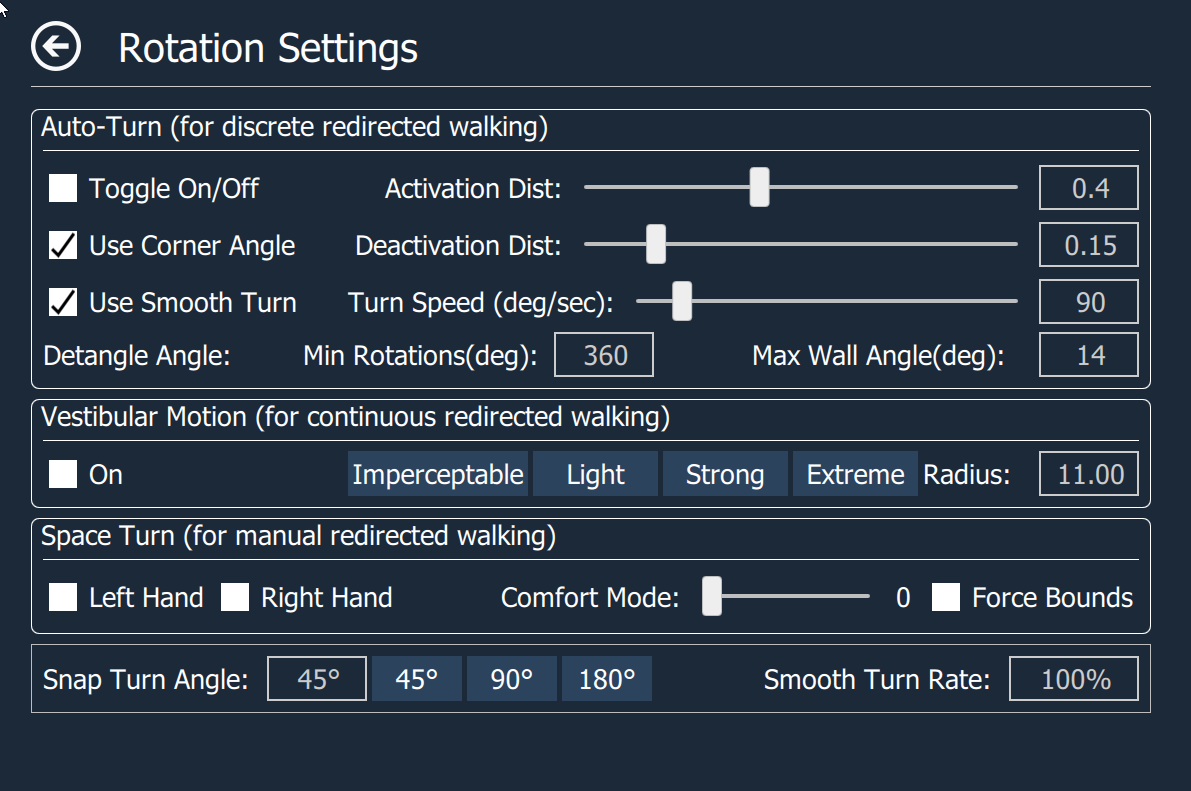
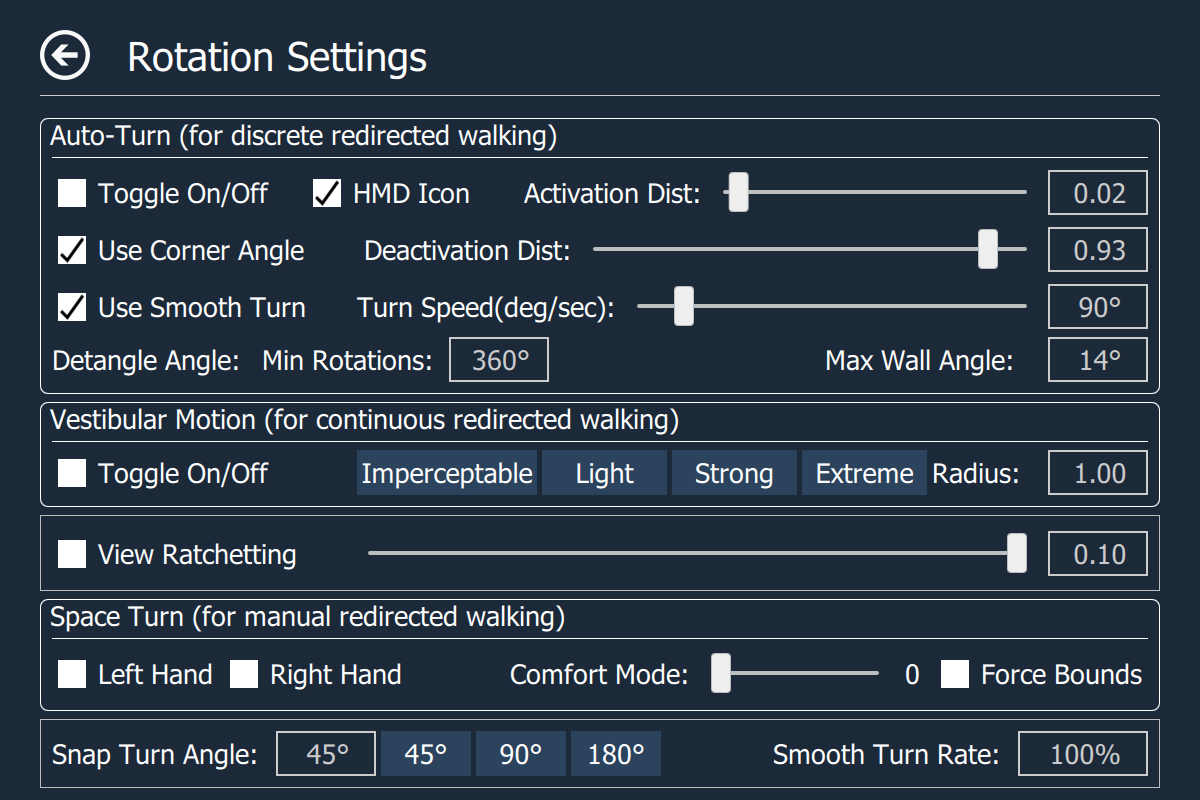
530 release (#517)
* update version strings for 5.3.0

* updated documentation

Changed region(s): [[0.0311, 0.0303, 0.9631, 0.9709]]

diff --git a/Readme.md b/Readme.md
@@ -221,7 +221,7 @@ Actions That will stay active regardless of the situation.
 | Add Left Haptic Click | Binary/Button | simulates a "click" with controller haptics. (left hand)
 | Add Right Haptic Click | Binary/Button | simulates a "click" with controller haptics. (right hand)
 | Key Press System | Binary/Button | Sends the key press defined in the settings file. Defaults to F9 |
-| Exclusive Input Toggle | Binary/Button | Switches between App and OVRAS keybinds, *note:* system Key-Binds remain active all the time
+| Exclusive Input Toggle | Binary/Button | Switches between App and OVRAS keybinds, *note:* OVRAS's system Key-Binds remain active all the time
 
 ### Haptics.
 
@@ -445,8 +445,8 @@ Allows users to temporarily move and rotate the center of the playspace. This al
 - **Redirected Walking**: Adds rotation as you walk to turn you away from the nearest wall you're moving towards. At 'Imperceptable' and 'Slight' angles should be subtle enough to feel as if you're walking in a straight line, effectively making your playspace feel bigger. 
   - **On**: Toggles Feature on/off
   - **Radius**: Radius in meters of how big a circle would be drawn to keep you walking in a straight line inside a game.
-
-
+- **View Ratchetting**: Steers you away from your nearest wall by rotating your world more than you turn in Real Life, based on head movements.
+  - **Slider**: Amplification percent 0 = no amplification, .10 means 10% (direct input up to 1.0).
 - **Space Turn**: Allows rotating your playspace by rotating your controller. Binds must be set via SteamVR Input system.
   - **Left/Right Hand**: Toggles functionality (must be active in addition to binding via input system to work.)
   - **Comfort Mode**: Limits the rate at which your rotation updates, reducing smoothness so that perceived rotation starts to feel more like mini-snap-turns. Higher values reduce smoothness more.
